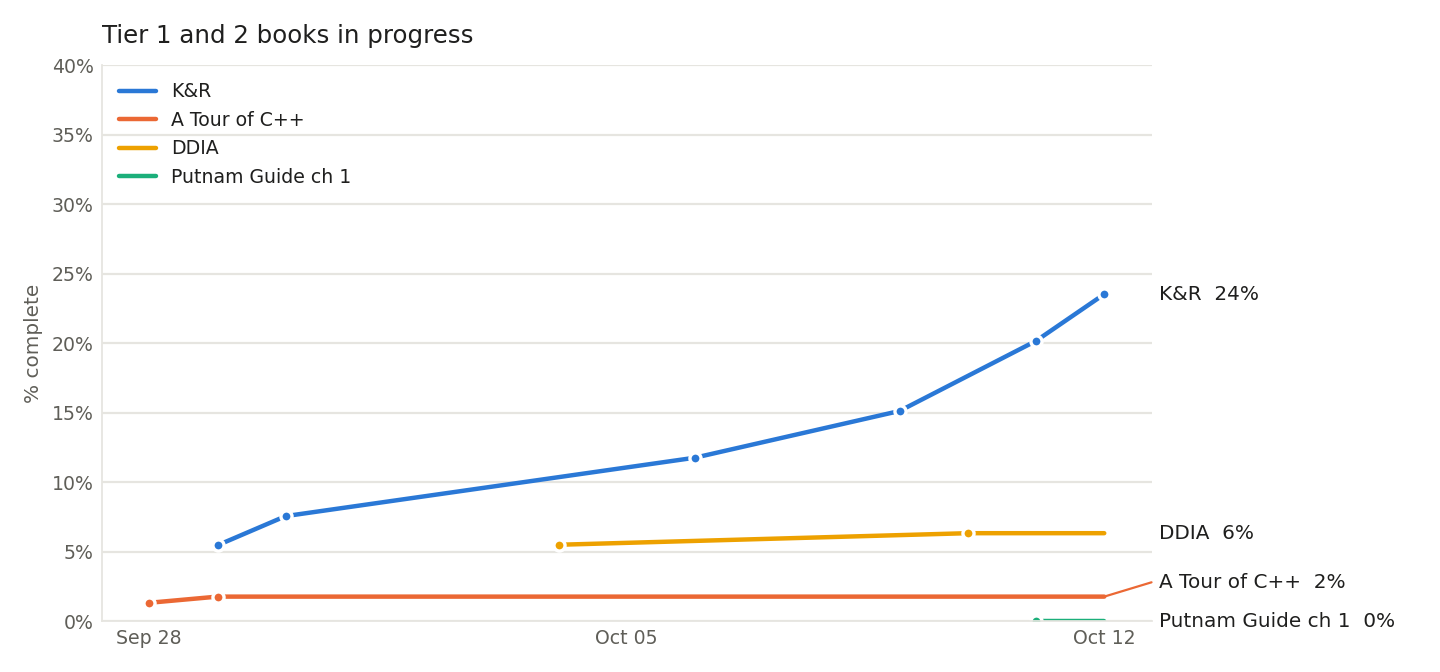
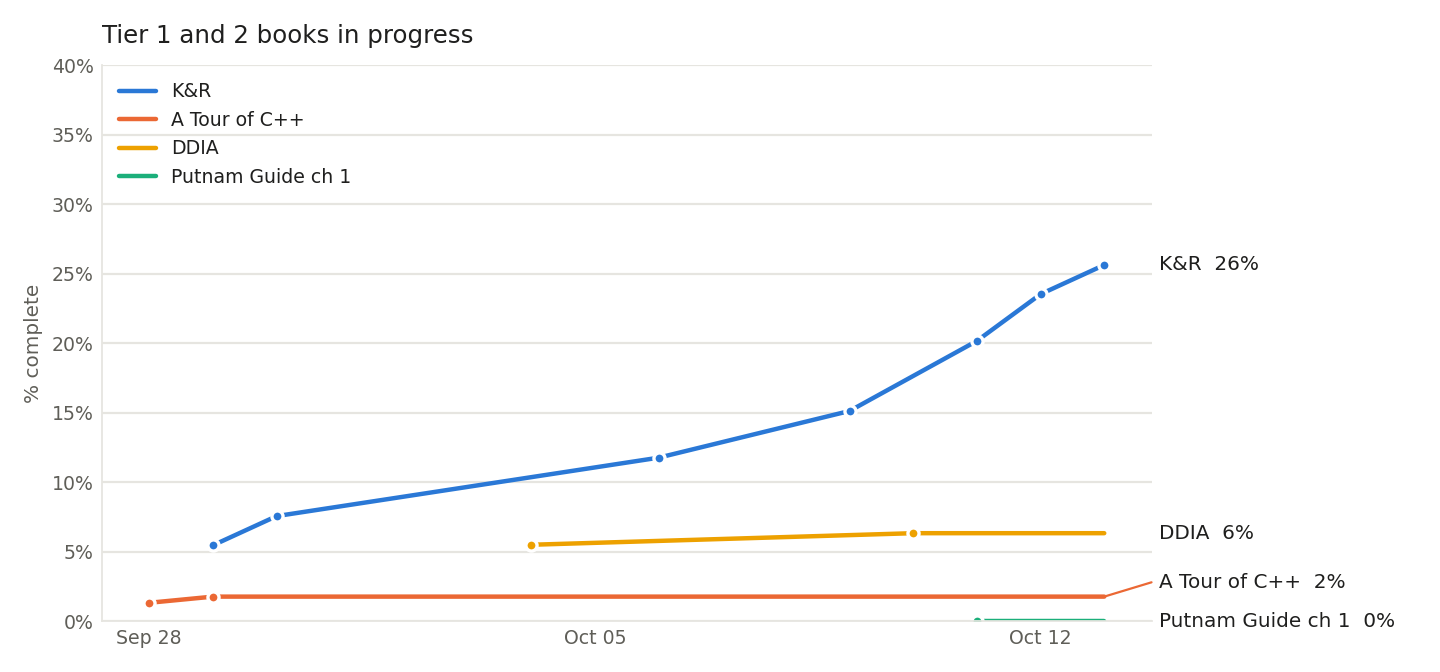
Finish K&R ch 3, 61 pages read

diff --git a/tracks/quant.md b/tracks/quant.md
@@ -8,8 +8,8 @@
   memmove over contiguous memory that runs at many GB/s. For a few hundred elements it is often faster than a skip list's
   pointer chasing, allocations, and random-level logic. Big-O hides constant factors and cache behavior. Read K&R for the
   memory model, pointers, and arrays; the cache-locality half of the lesson belongs to the low-latency book in the career track.
-  Log: 2026-09-29 started, read to page 13. 2026-09-30 to page 18. 2026-10-06 to page 28. 2026-10-09 to page 36, finished chapter 1. 2026-10-11 to page 41 (through 2.6), then read 2.8 through 2.12 with 2.7 skipped. 2026-10-12 backfilled 2.7, chapter 2 done, then to page 56. Currently on
-  page 57 of 238 (24%), chapter 3 Control Flow, section 3.5 Loops.
+  Log: 2026-09-29 started, read to page 13. 2026-09-30 to page 18. 2026-10-06 to page 28. 2026-10-09 to page 36, finished chapter 1. 2026-10-11 to page 41 (through 2.6), then read 2.8 through 2.12 with 2.7 skipped. 2026-10-12 backfilled 2.7, chapter 2 done, then to page 56. 2026-10-13 to page 61, chapter 3 done. Currently on
+  page 62 of 238 (26%), chapter 4 Functions and Program Structure.
 - [~] **A Tour of C++** by Bjarne Stroustrup (Tier 1)
   Fast, authoritative overview of modern C++. Second priority overall, after K&R. Also pays off directly in competitive programming.
   Plan (started 2026-09-28): one pass, no re-reading. Chapters 1 to 8 (core language) at one chapter per sitting with a

diff --git a/README.md b/README.md
@@ -15,7 +15,7 @@ Personal reading list across three tracks. Each track lives in its own file unde
 <!-- progress:start -->
 | Book | Progress | | Unit |
 |---|---|---|---|
-| K&R | `█████░░░░░░░░░░░░░░░` | 24% | 56 of 238 pages |
+| K&R | `█████░░░░░░░░░░░░░░░` | 26% | 61 of 238 pages |
 | A Tour of C++ | `░░░░░░░░░░░░░░░░░░░░` | 2% | 4 of 226 pages |
 | DDIA | `█░░░░░░░░░░░░░░░░░░░` | 6% | 38 of 600 pages |
 | Putnam Guide ch 1 | `░░░░░░░░░░░░░░░░░░░░` | 0% | 0 of 72 items |
